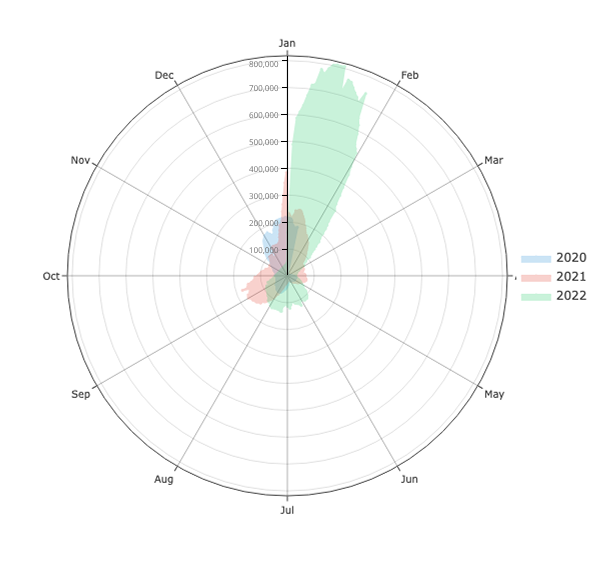
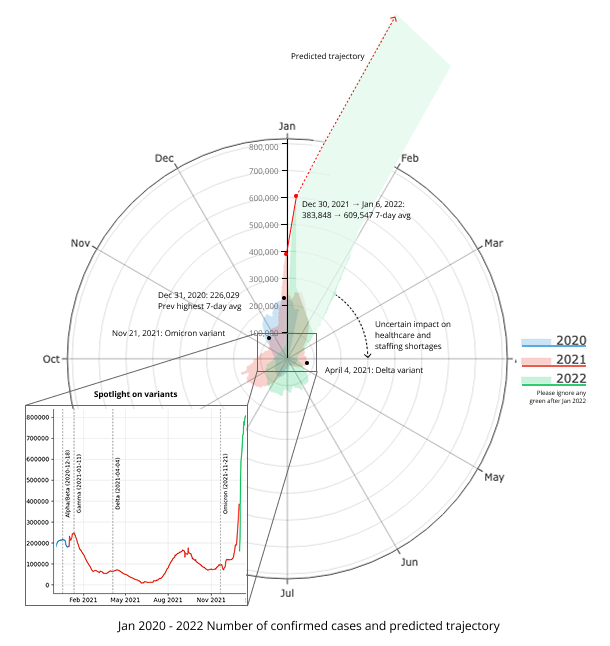
missed some

diff --git a/6.C85/A3.html b/6.C85/A3.html
@@ -152,43 +152,95 @@ figcaption {
 
 <h2>Visualization Sketches</h2>
 
-<h3>Design rationale for Sketch 1</h3>
-		<p>Explaination</p>
-        <p>Some inspiration:</p>
+<h3>Sketch 1</h3>
+        <h4>Some inspiration</h4>
                 <figure aria-label="Sketch 1 inspo" role="img">
 			<img src="A3-assets/sketch1-inspo.png" alt="Sketch 1 inspiration">
 		</figure>
 
-
+<h4>The sketch</h4>
         <figure aria-label="Sketch 1" role="img">
 			<img src="A3-assets/sketch1.png" alt="Sketch 1">
 		</figure>
 
+			<h4>Design rationale</h4>
+			<ul>
+			  <li><strong>Motivation:</strong> Experiment with both area graph form and some level of Sunburst and Nightingale Rose charts which seem to have a connection to the NYT spiral</li>
+			  <li><strong>Communicate:</strong>
+			    <ul>
+			      <li>Month over month change more clearly than the NYT spiral and clarity of what the area represents in number form</li>
+			      <li>Projected of Jan 2022</li>
+			      <li>Toll on healthcare system by having another area above each year to communicate and show how the 2022 omicron could overwhelm the healthcare system</li>
+			      <li>What "7-day average" means in terms of time within each month (i.e. week over week)</li>
+			    </ul>
+			  </li>
+			  <li><strong>Worked well:</strong> Does seem more clear in terms of what area represents</li>
+			  <li><strong>Didn't work well:</strong> Sketch needs more color to differentiate but the black and white is kinda cool</li>
+			  <li><strong>Explore next:</strong> Variants and how to express</li>
+			</ul>
 
 
-        <h3>Design rationale for Sketch 2</h3>
-   <p>Some inspiration:</p>
+
+
+        <h3>Sketch 2</h3>
+   <h4>Some inspiration</h4>
                 <figure aria-label="Sketch 2 inspo" role="img">
 			<img src="A3-assets/sketch2-inspo.png" alt="Sketch 2 inspiration">
 		</figure>
 
-        <figure aria-label="Sketch 1" role="img">
-			<img src="A3-assets/sketch2.png" alt="Sketch 1">
+		<h4>The sketch</h4>
+        <figure aria-label="Sketch 2" role="img">
+			<img src="A3-assets/sketch2.png" alt="Sketch 2">
+
+				<h4>Design rationale</h4>
+			<ul>
+			  <li><strong>Motivation:</strong> In A1, I experimented with data points using specialized images(?) characters(?) as the points themselves, like ties of a kite or music notes but they lacked context of the actual assignment. This time I wanted to try to incorporate the same idea but in context</li>
+			  <li><strong>Communicate:</strong>
+			    <ul>
+			      <li>When specific variants emerge </li>
+			      <li>When specific variants become relevant in spikes in numbers</li>
+			      <li>Warning of strain on healthcare system</li>
+			      <li>Projected huge difference in spike from variant compared to previous years </li>
+			    </ul>
+			  </li>
+			  <li><strong>Worked well:</strong> I think all the little extras I added like the warning for healthcare and how high the 2022 spike was compared to any other year was good </li>
+			  <li><strong>Didn't work well:</strong> The variants as data points add a lot of clutter and it isn't entirely clear what they're trying to express</li>
+			  <li><strong>Explore next:</strong> I wanted to explore this in a more hifi version with the actual data so I did so below but wasn't actually able to successfully incorporate much from the sketch because it is too difficult! Sometimes some abstraction is fun but not feasible</li>
+			</ul>
+					</figure>
+		      <figure aria-label="Sketch 2 hifi" role="img">
+			<img src="A3-assets/hifi.png" alt="Sketch 2 hifi">
 		</figure>
 
-		<p>Explaination</p>
 
-        <h3>Design rationale for Sketch 3</h3>
-    <p>Some inspiration:</p>
+
+        <h3>Sketch 3</h3>
+    <h4>Some inspiration</h4>
                 <figure aria-label="Sketch 3 inspo" role="img">
 			<img src="A3-assets/sketch3-inspo.png" alt="Sketch 3 inspiration">
 		</figure>
 
+		<h4>The sketch</h4>
         <figure aria-label="Sketch 3" role="img">
 			<img src="A3-assets/sketch3.png" alt="Sketch 3">
 		</figure>
+		
 
-		<p>Explaination</p>
+		<h4>Design rationale</h4>
+					<ul>
+			  <li><strong>Motivation:</strong> In the <a href="https://datavizcatalogue.com/index.html">The Data Visualisation Catalog</a> and the <a href="https://observablehq.com/@d3/gallery">D3 Gallery</a>, I saw a lot of cool ways to link data points through nodes and different facets so I wanted to try to do so with the idea of variants over the years</li>
+			  <li><strong>Communicate:</strong>
+			    <ul>
+			      <li>Sheer scale of 2022 and potential compared to 2021 and 2020 </li>
+			      <li>How different variants have interacted with each other and played a role in the numbers </li>
+			      <li>Variants relationships with each other since they are created from old versions</li>
+			      <li>Something more simple than the circular charts since bar charts tend to be more readable and familiar and most importantly binary </li>
+			    </ul>
+			  </li>
+			  <li><strong>Worked well:</strong> The idea was cool and I was wondering how I would relate my idea to COVID and I think it makes sense </li>
+			  <li><strong>Didn't work well:</strong> I don't think this is feasible to generate whatsoever, I don't know where I would start </li>
+			  <li><strong>Explore next:</strong> Next is the final viz!!!</li>
+			</ul>
 
         <h2>Final Visualization Design</h2>
 
@@ -196,13 +248,19 @@ figcaption {
 			<img src="A3-assets/final-visualization.png" alt="Final Visualization">
 		</figure>
 
-        <p>Explaination</p>
-
         <h2>Final Writeup</h2>
 
         <p>DESCRIBE YOUR RATIONALE TO JUSTIFY THE DECISIONS FOR YOUR FINAL DESIGN. WHAT ARE YOU TRYING TO CONVEY, AND HOW DOES YOUR DESIGN FACILITATE THIS?</p>
 
 <p>REFLECT ON HOW YOUR FINAL DESIGN DOES OR DOES NOT ADDRESS YOUR ORIGINAL CRITIQUE. WHAT TENSIONS OR TRADEOFFS DID YOU ENCOUNTER? WHAT DID NOT WORK OUT AS ANTICIPATED?</p>
+
+<h2>Appendix</h2>
+<p>External data of dates for variant emergence dates to assist in the final visualization is from Table 2 of NIH publication, <a href="https://pmc.ncbi.nlm.nih.gov/articles/PMC10394493/">Emergence of COVID-19 Variants: An Update</a>:</p>
+<figure>
+			<img src="A3-assets/covid-variants-sc-who.png" alt="Figure">
+		</figure>
+
+
 <p></p>
 	</main>
 
